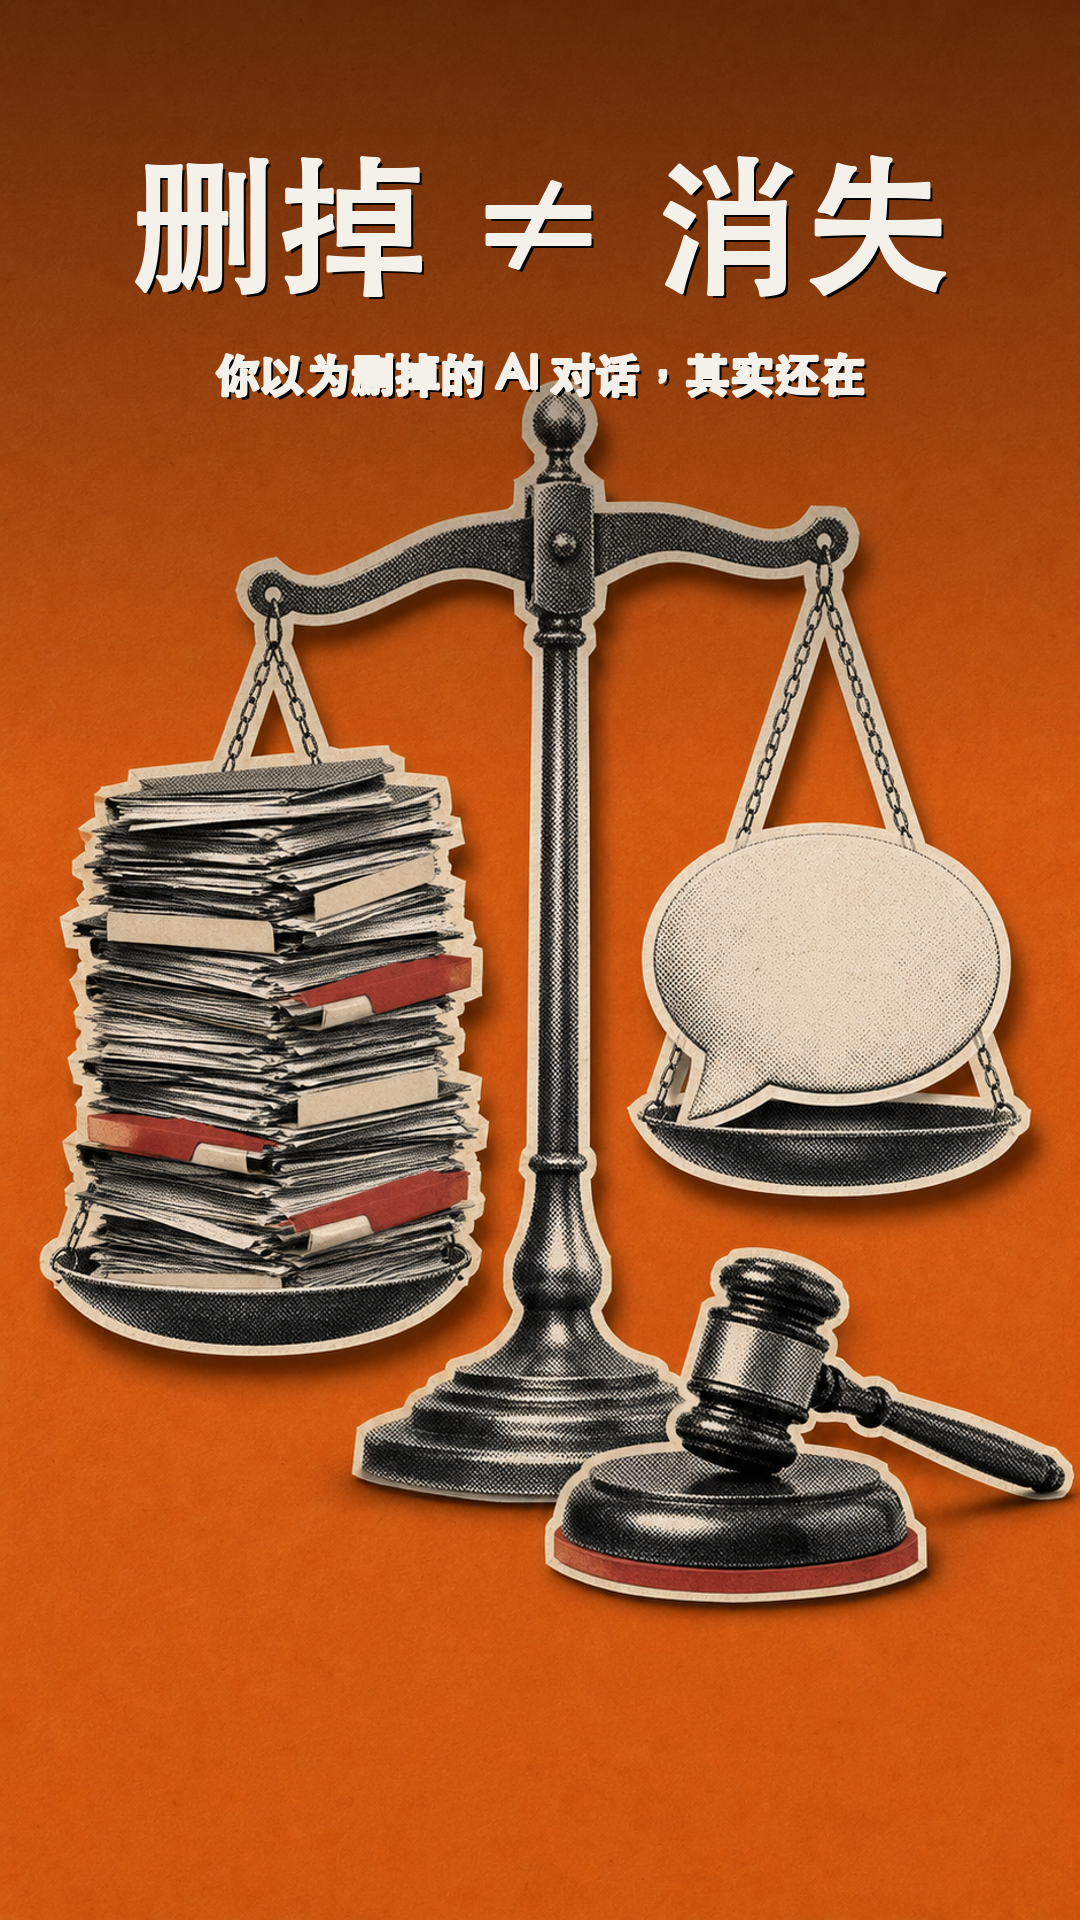
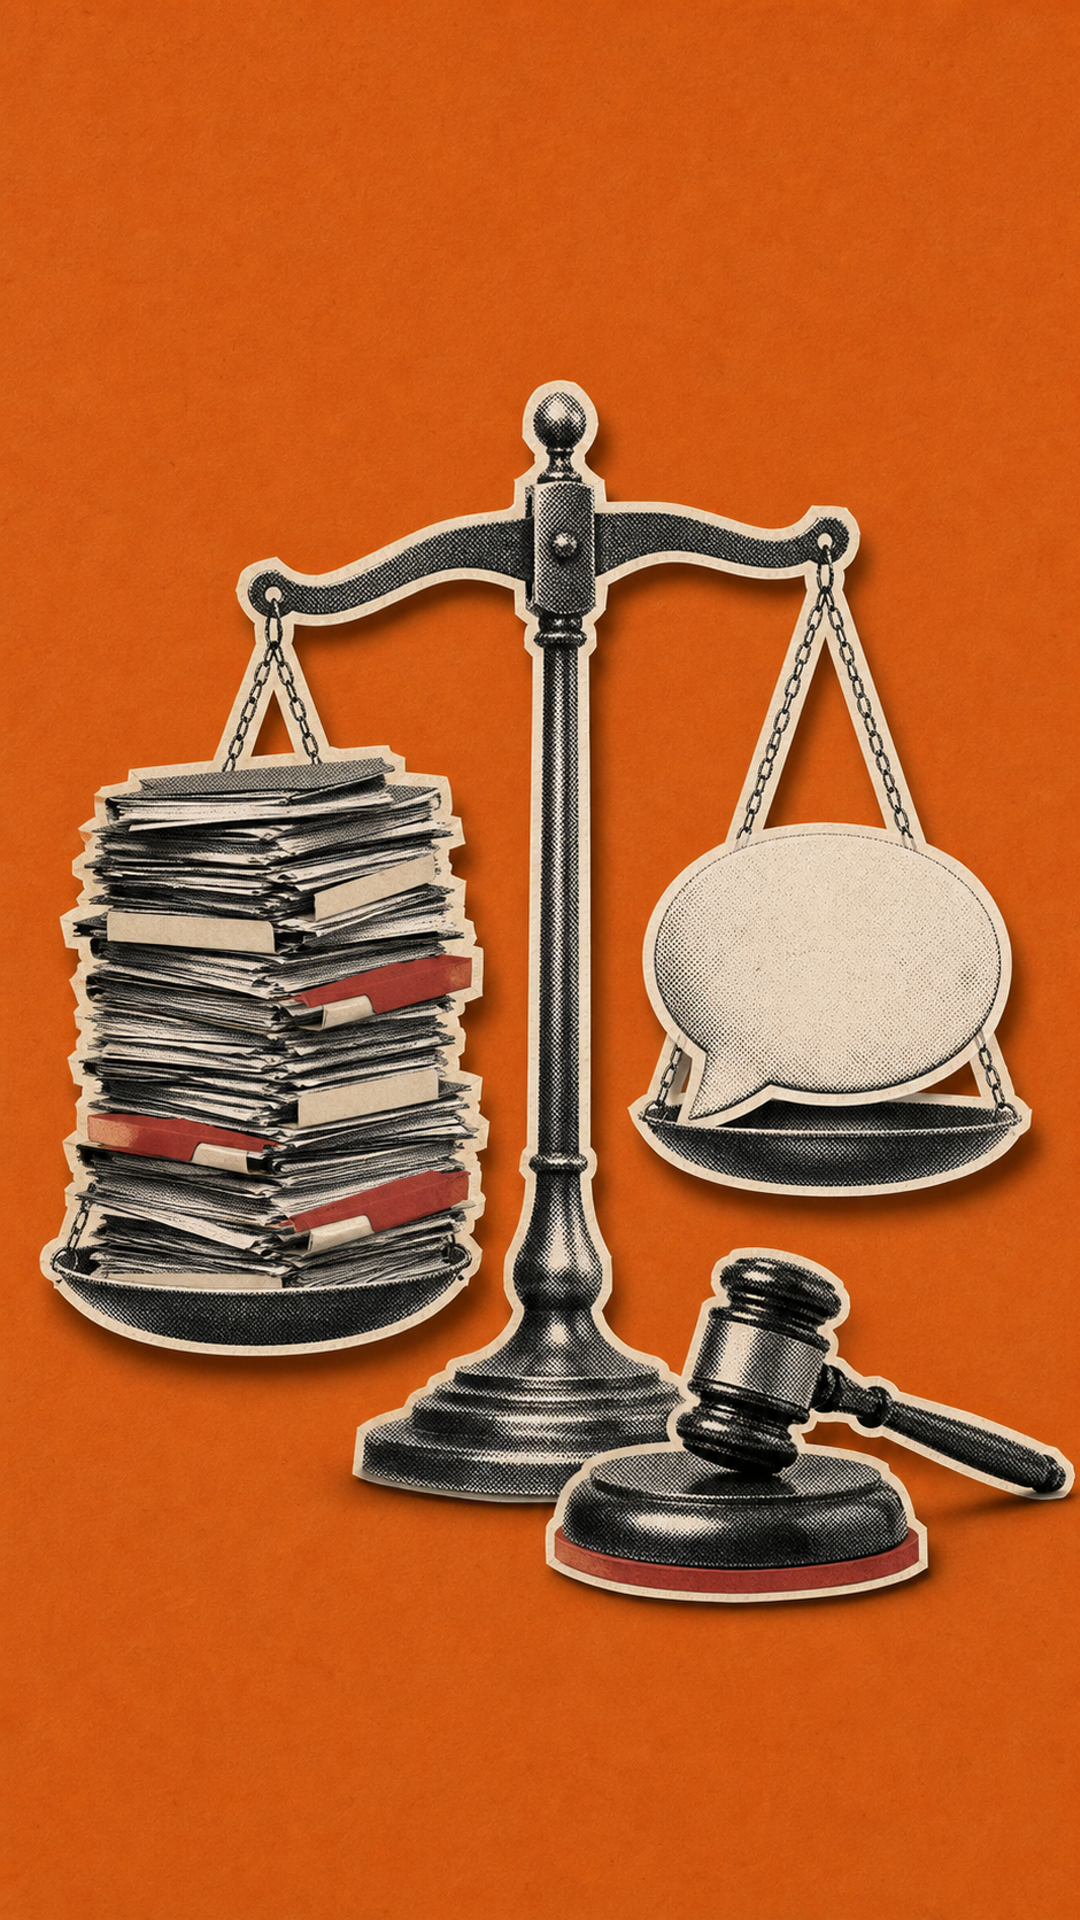
封面改为拼贴动画直接截帧(无文字设计)，按用户反馈

diff --git a/projects/openai-78m-logs/out/publish/publish-package.md b/projects/openai-78m-logs/out/publish/publish-package.md
@@ -8,9 +8,10 @@
 - **长尾②**：`AI 对话删除了还在吗`（对应片子核心「删掉≠消失」）
 
 ## Step 2 · 封面（✅ 已定稿）+ 标题（待你选）
-**封面 = 第一个拼贴动画（s02a 法庭天平：档案 vs AI 气泡）+「删掉 ≠ 消失」**（用户拍板）。成品已出：
-- 小红书 3:4：`covers/cover-rednote-3x4.png`（1080×1440，拼贴底 + 大字封面文案 + 副文「你以为删掉的 AI 对话，其实还在」）
-- 抖音 9:16：`covers/cover-douyin-9x16.png`（1080×1920，同款）
+**封面 = 第一个拼贴动画（s02a 法庭天平：档案 vs AI 气泡）直接截帧，无文字叠加**（用户拍板：直接截，不设计）。
+- 小红书 3:4：`covers/cover-rednote-3x4.png`（1080×1440）
+- 抖音 9:16：`covers/cover-douyin-9x16.png`（1080×1920）
+- 封面文案「删掉 ≠ 消失」如需可在 App 内叠加（不烤进图）
 
 **标题 3 版待选**（封面文案已定「删掉 ≠ 消失」，标题走搜索词；推荐 A，与封面/首3秒/口播首句三面一致）：
 | 版 | 公式 | 标题(≤20字,含搜索词) |